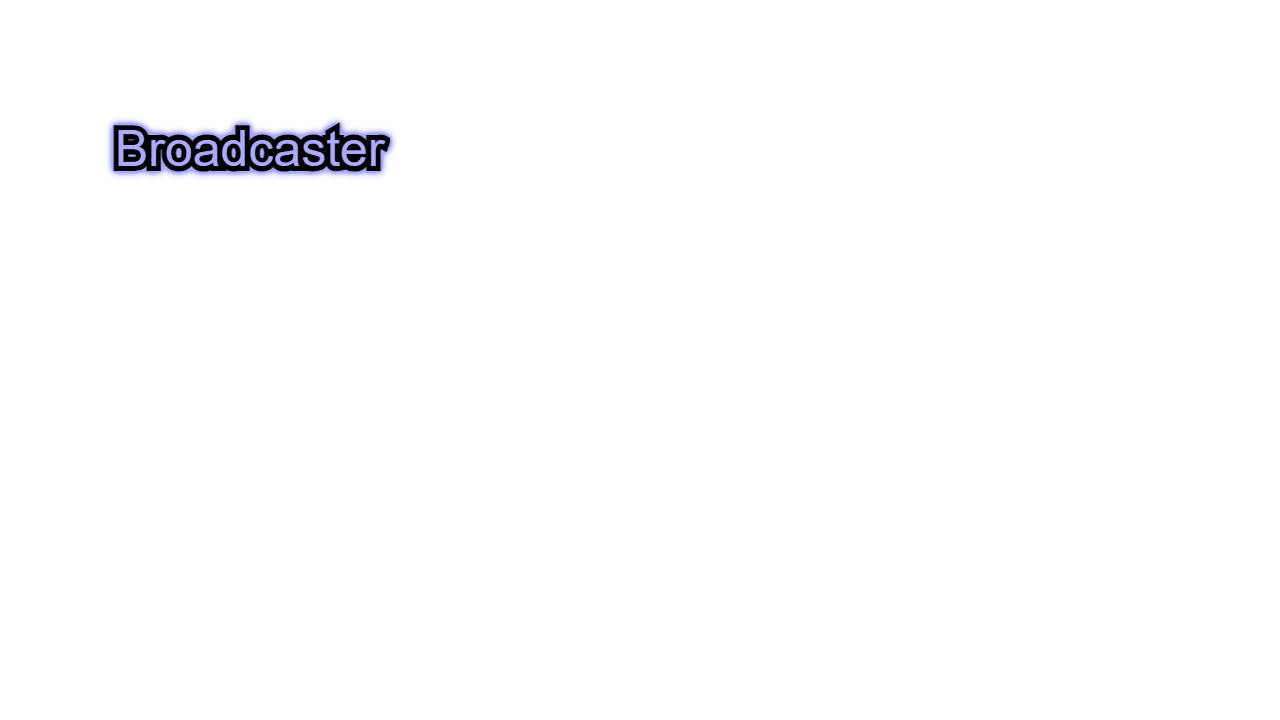
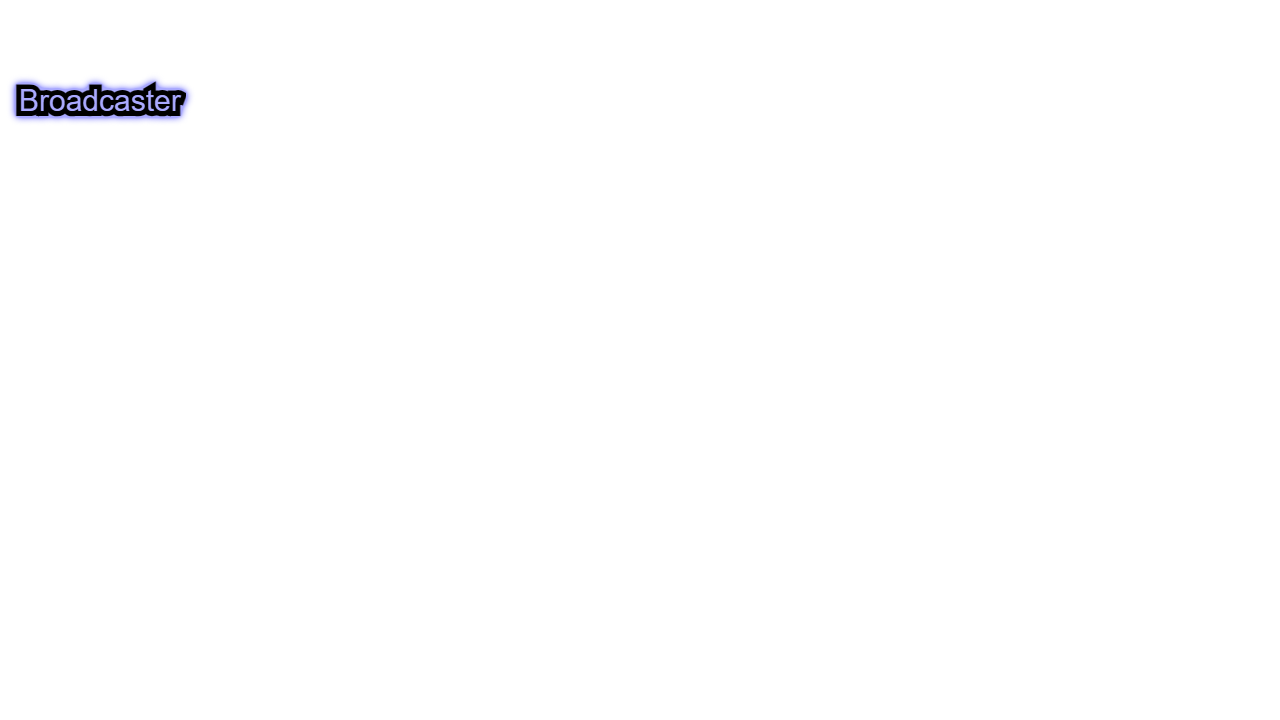
broadcasterのサイズanchor変更に追従

Changed region(s): [[0.0, 0.0917, 0.3125, 0.2444]]

diff --git a/resource/image/index.ts b/resource/image/index.ts
@@ -4,7 +4,7 @@ import { createSpot } from './spot'
 
 const main = (): AssetsParameters => [
   createText({ name: 'default', text: 'default', size: 50, strokeWidth: 10, blur: true }),
-  createText({ name: 'broadcaster.default', text: 'Broadcaster', size: 50, color: 0xaaaaff, strokeWidth: 10, blur: true }),
+  createText({ name: 'broadcaster.default', text: 'Broadcaster', size: 30, color: 0xaaaaff, strokeWidth: 10, blur: true }),
   createText({ name: 'spot.default', text: 'Spot', size: 50, strokeWidth: 10, blur: true }),
   ...createSpot({ name: 'spot.default', label: 'Spot', fontSize: 40, width: 150, height: 100, baseColor: 0x4169e1, padding: 10 }),
   createText({ name: 'layer.field.label', text: 'field', size: 25, color: 0x000000, stokeColor: 0xffffff }),
